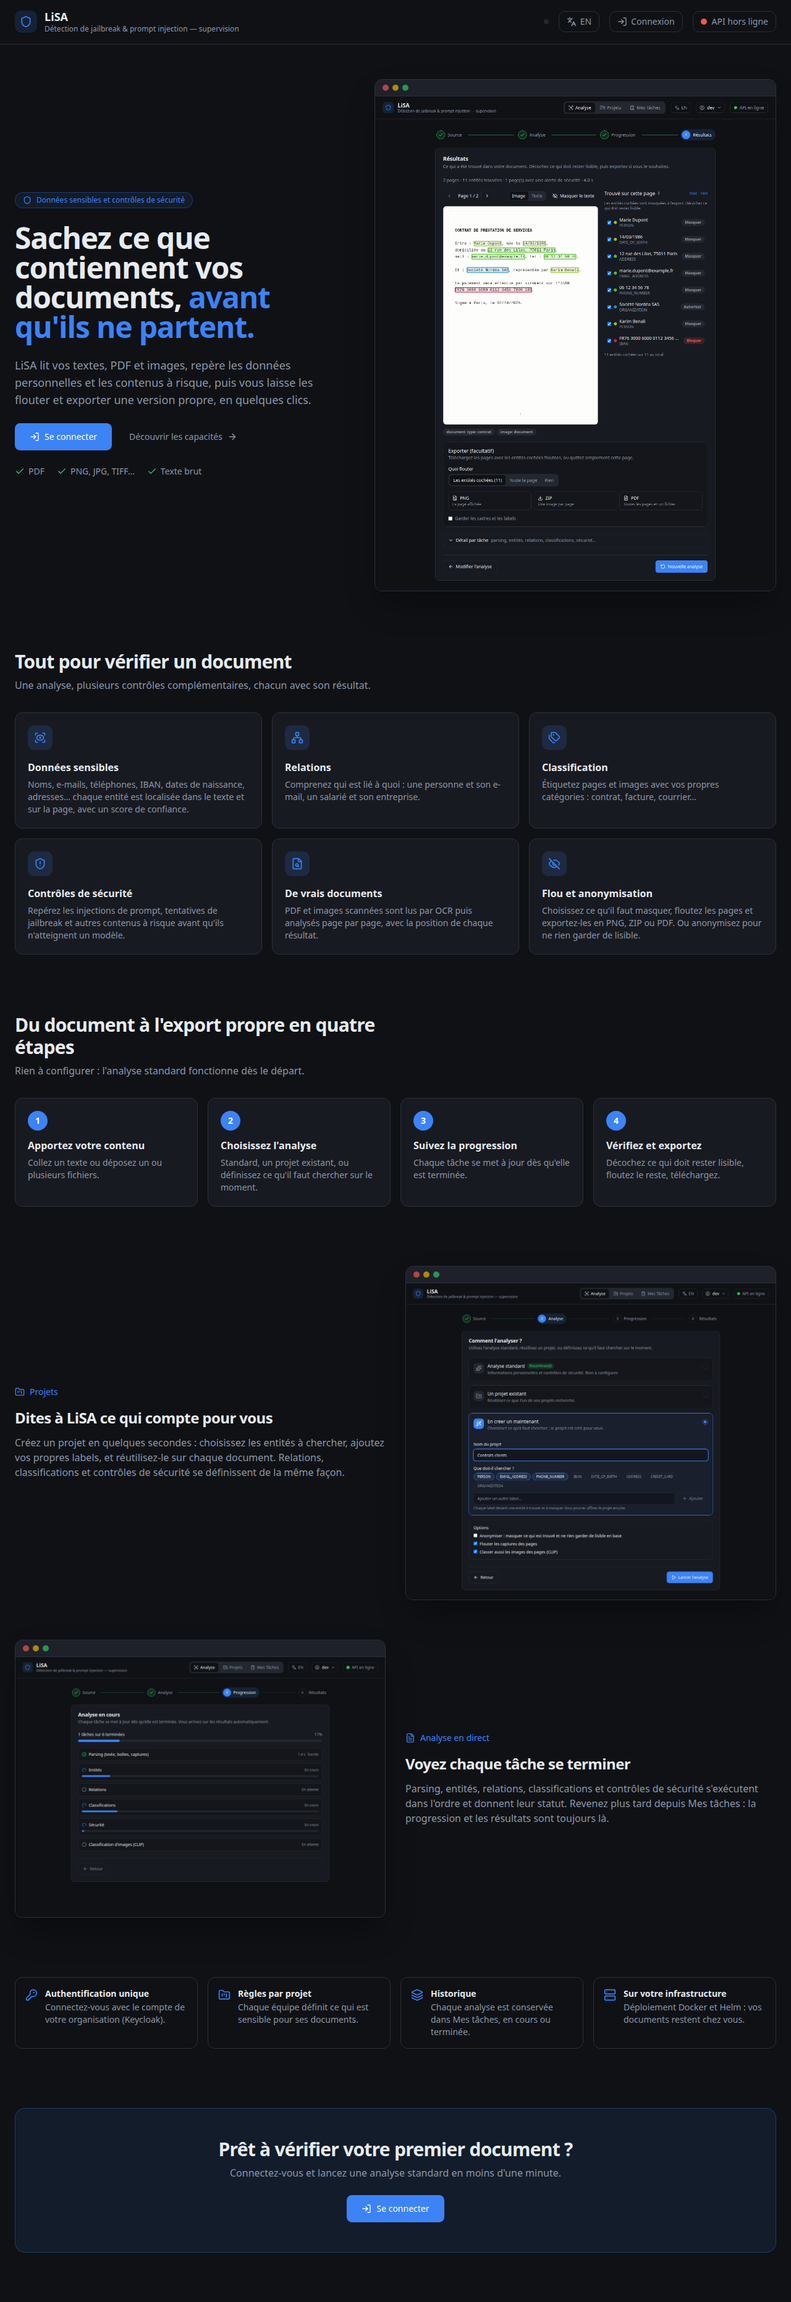
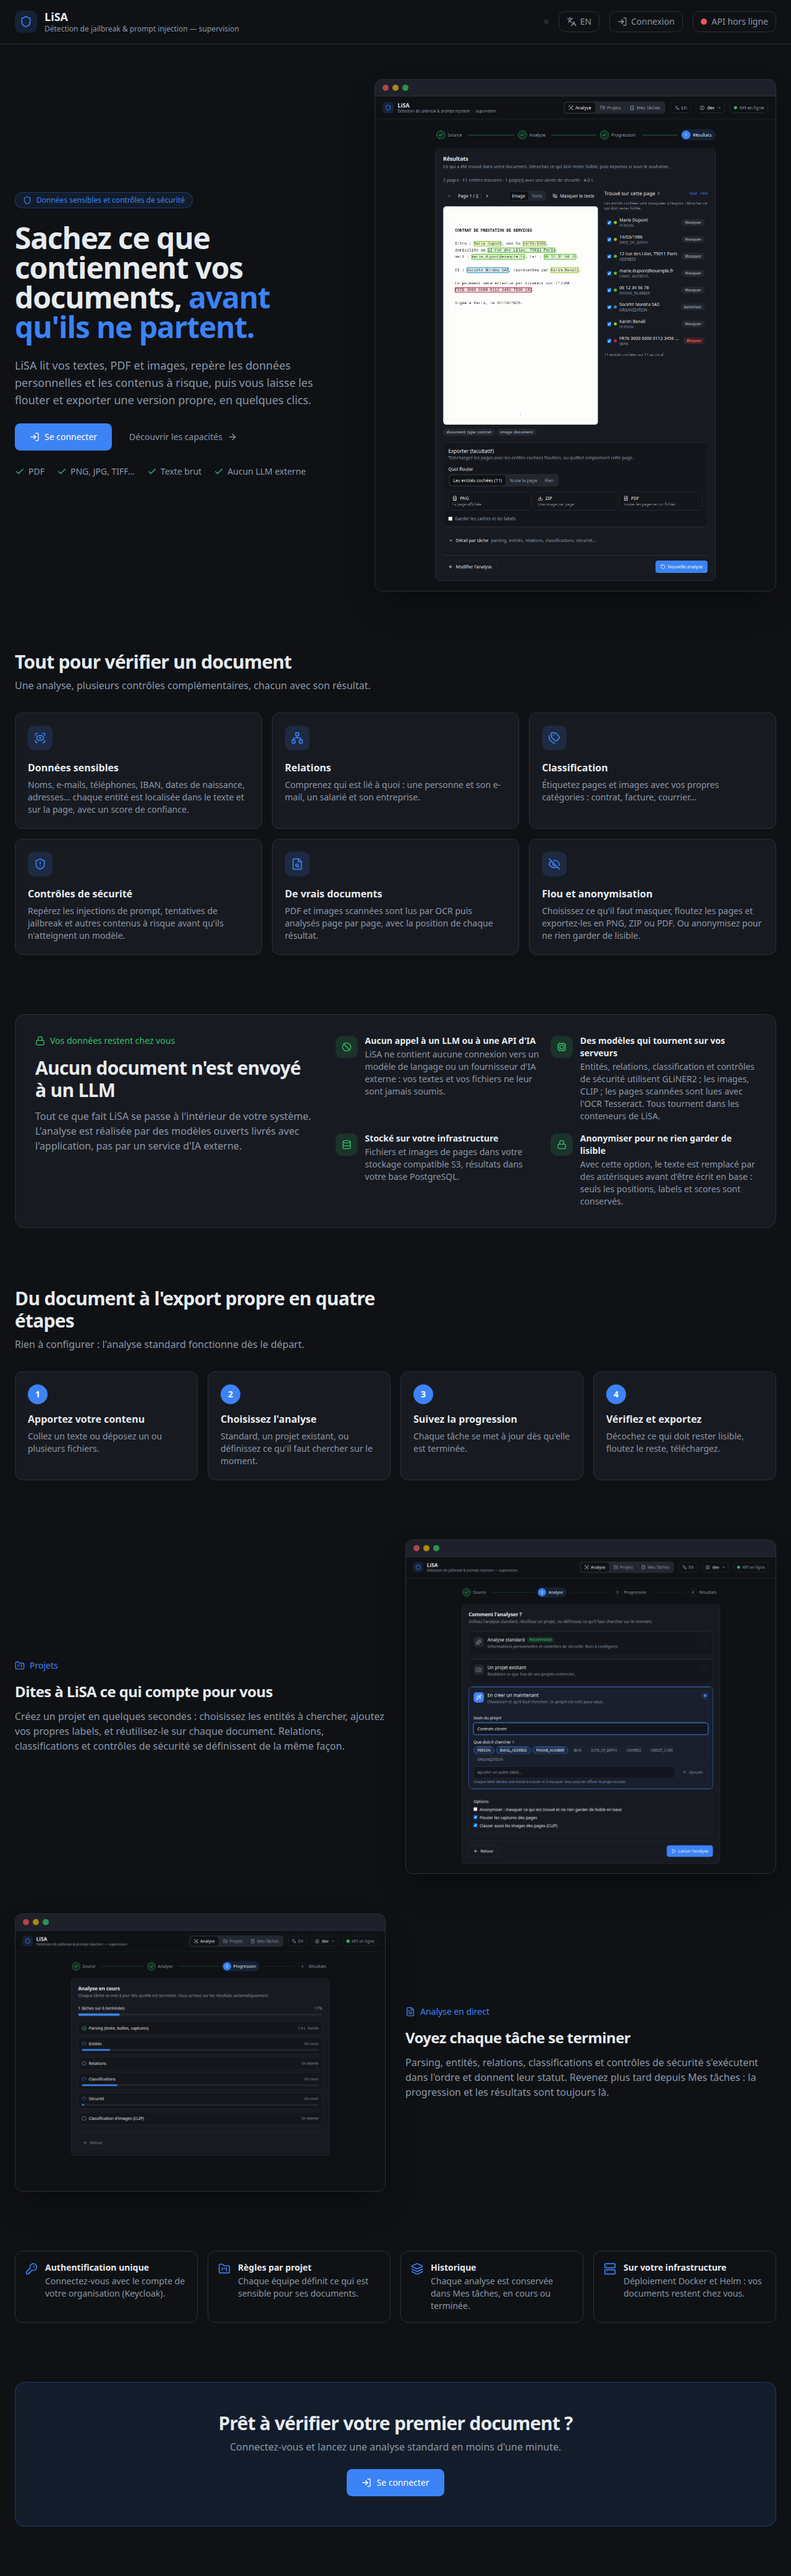
feat(frontend): say on the landing page that LiSA works offline
Add a privacy section: analysis needs no Internet access and calls no external service or LLM;
the models (GLiNER2, CLIP, Tesseract) run in LiSA's own containers; storage stays on the
user's infrastructure; the anonymise option keeps nothing readable in the database.

diff --git a/frontend/src/lib/i18n.jsx b/frontend/src/lib/i18n.jsx
@@ -554,6 +554,18 @@ export const translations = {
     "landing.trust.selfhosted.desc": "Docker and Helm deployment: your documents stay with you.",
     "landing.final.title": "Ready to check your first document?",
     "landing.final.desc": "Sign in and run a standard analysis in under a minute.",
+    "landing.formats.nollm": "100% offline",
+    "landing.privacy.kicker": "Your data stays with you",
+    "landing.privacy.title": "Works offline: nothing leaves your system",
+    "landing.privacy.desc": "Analysing a document needs no Internet access and calls no external service. The analysis is carried out by open models shipped with the application, never by an LLM or an AI service.",
+    "landing.privacy.nollm": "No call to an LLM or AI API",
+    "landing.privacy.nollm.desc": "LiSA contains no connection to an external language model or AI provider: your texts and files are never submitted to one.",
+    "landing.privacy.models": "Models that run on your servers",
+    "landing.privacy.models.desc": "Entities, relations, classification and safety checks use GLiNER2; images use CLIP; scanned pages are read with Tesseract OCR. Models and language data are bundled in the images and run in LiSA's own containers, with the model hub disabled.",
+    "landing.privacy.storage": "Stored on your infrastructure",
+    "landing.privacy.storage.desc": "Files and page images live in your S3-compatible storage, results in your PostgreSQL database.",
+    "landing.privacy.anonymize": "Anonymise to keep nothing readable",
+    "landing.privacy.anonymize.desc": "With this option the text is replaced by asterisks before it is written to the database: only positions, labels and scores are kept.",
   },
   fr: {
     "app.subtitle": "Détection de jailbreak & prompt injection — supervision",
@@ -1108,6 +1120,18 @@ export const translations = {
     "landing.trust.selfhosted.desc": "Déploiement Docker et Helm : vos documents restent chez vous.",
     "landing.final.title": "Prêt à vérifier votre premier document ?",
     "landing.final.desc": "Connectez-vous et lancez une analyse standard en moins d'une minute.",
+    "landing.formats.nollm": "100 % hors ligne",
+    "landing.privacy.kicker": "Vos données restent chez vous",
+    "landing.privacy.title": "Fonctionne hors ligne : rien ne sort de votre système",
+    "landing.privacy.desc": "Analyser un document ne demande aucun accès à Internet et n'appelle aucun service externe. L'analyse est réalisée par des modèles ouverts livrés avec l'application, jamais par un LLM ou un service d'IA.",
+    "landing.privacy.nollm": "Aucun appel à un LLM ou à une API d'IA",
+    "landing.privacy.nollm.desc": "LiSA ne contient aucune connexion vers un modèle de langage ou un fournisseur d'IA externe : vos textes et vos fichiers ne leur sont jamais soumis.",
+    "landing.privacy.models": "Des modèles qui tournent sur vos serveurs",
+    "landing.privacy.models.desc": "Entités, relations, classification et contrôles de sécurité utilisent GLiNER2 ; les images, CLIP ; les pages scannées sont lues avec l'OCR Tesseract. Modèles et données de langue sont embarqués dans les images et tournent dans les conteneurs de LiSA, sans accès au hub de modèles.",
+    "landing.privacy.storage": "Stocké sur votre infrastructure",
+    "landing.privacy.storage.desc": "Fichiers et images de pages dans votre stockage compatible S3, résultats dans votre base PostgreSQL.",
+    "landing.privacy.anonymize": "Anonymiser pour ne rien garder de lisible",
+    "landing.privacy.anonymize.desc": "Avec cette option, le texte est remplacé par des astérisques avant d'être écrit en base : seuls les positions, labels et scores sont conservés.",
   },
 };
 

diff --git a/frontend/src/pages/LoginPage.jsx b/frontend/src/pages/LoginPage.jsx
@@ -1,13 +1,17 @@
 import { Navigate, useLocation } from "react-router-dom";
 import {
   ArrowRight,
+  Ban,
   Check,
+  Cpu,
+  Database,
   EyeOff,
   FileSearch,
   FileText,
   FolderKanban,
   KeyRound,
   Layers,
+  Lock,
   LogIn,
   Network,
   ScanEye,
@@ -31,6 +35,14 @@ const FEATURES = [
   { key: "safety", icon: ShieldAlert },
   { key: "documents", icon: FileSearch },
   { key: "blur", icon: EyeOff },
+];
+
+// What keeps the data in the system: each point is true of the code, see the i18n texts.
+const PRIVACY = [
+  { key: "nollm", icon: Ban },
+  { key: "models", icon: Cpu },
+  { key: "storage", icon: Database },
+  { key: "anonymize", icon: Lock },
 ];
 
 const STEPS = ["source", "analysis", "run", "results"];
@@ -97,7 +109,7 @@ export default function LoginPage() {
             </a>
           </div>
           <ul className="flex flex-wrap gap-x-5 gap-y-1.5 text-sm text-muted-foreground">
-            {["pdf", "images", "text"].map((k) => (
+            {["pdf", "images", "text", "nollm"].map((k) => (
               <li key={k} className="flex items-center gap-1.5">
                 <Check className="h-4 w-4 text-success" />
                 {t(`landing.formats.${k}`)}
@@ -125,6 +137,31 @@ export default function LoginPage() {
             </div>
           ))}
         </div>
+      </section>
+
+      {/* Privacy */}
+      <section className="grid gap-8 rounded-2xl border border-border bg-card p-6 sm:p-8 lg:grid-cols-[minmax(0,2fr)_minmax(0,3fr)]">
+        <div className="space-y-3">
+          <span className="inline-flex items-center gap-2 text-sm font-medium text-success">
+            <Lock className="h-4 w-4" />
+            {t("landing.privacy.kicker")}
+          </span>
+          <h3 className="text-3xl font-bold tracking-tight">{t("landing.privacy.title")}</h3>
+          <p className="text-muted-foreground">{t("landing.privacy.desc")}</p>
+        </div>
+        <ul className="grid gap-4 sm:grid-cols-2">
+          {PRIVACY.map(({ key, icon: Icon }) => (
+            <li key={key} className="flex gap-3">
+              <span className="mt-0.5 flex h-9 w-9 shrink-0 items-center justify-center rounded-lg bg-success/15 text-success">
+                <Icon className="h-4 w-4" />
+              </span>
+              <div>
+                <h4 className="text-sm font-semibold">{t(`landing.privacy.${key}`)}</h4>
+                <p className="mt-0.5 text-sm text-muted-foreground">{t(`landing.privacy.${key}.desc`)}</p>
+              </div>
+            </li>
+          ))}
+        </ul>
       </section>
 
       {/* How it works */}

diff --git a/docs/README.md b/docs/README.md
@@ -6,7 +6,7 @@ Code : [`frontend/src/pages/AnalysisPage.jsx`](../frontend/src/pages/AnalysisPag
 
 ## Page de connexion
 
-La page de connexion est aussi la page de présentation du produit : ce que fait LiSA (données sensibles, relations, classification, contrôles de sécurité, documents réels, flou et anonymisation), le parcours en quatre étapes, un aperçu des écrans, puis ce qui rassure (authentification unique, règles par projet, historique, déploiement sur votre infrastructure). Le bouton *Se connecter* envoie vers Keycloak ; un utilisateur déjà connecté est renvoyé vers l'application.
+La page de connexion est aussi la page de présentation du produit : ce que fait LiSA (données sensibles, relations, classification, contrôles de sécurité, documents réels, flou et anonymisation), ce qui garantit que les données restent dans le système (aucun appel à un LLM externe, modèles embarqués), le parcours en quatre étapes, un aperçu des écrans, puis ce qui rassure (authentification unique, règles par projet, historique, déploiement sur votre infrastructure). Le bouton *Se connecter* envoie vers Keycloak ; un utilisateur déjà connecté est renvoyé vers l'application.
 
 ![Page de connexion](screenshots/00-page-de-connexion.png)
 
